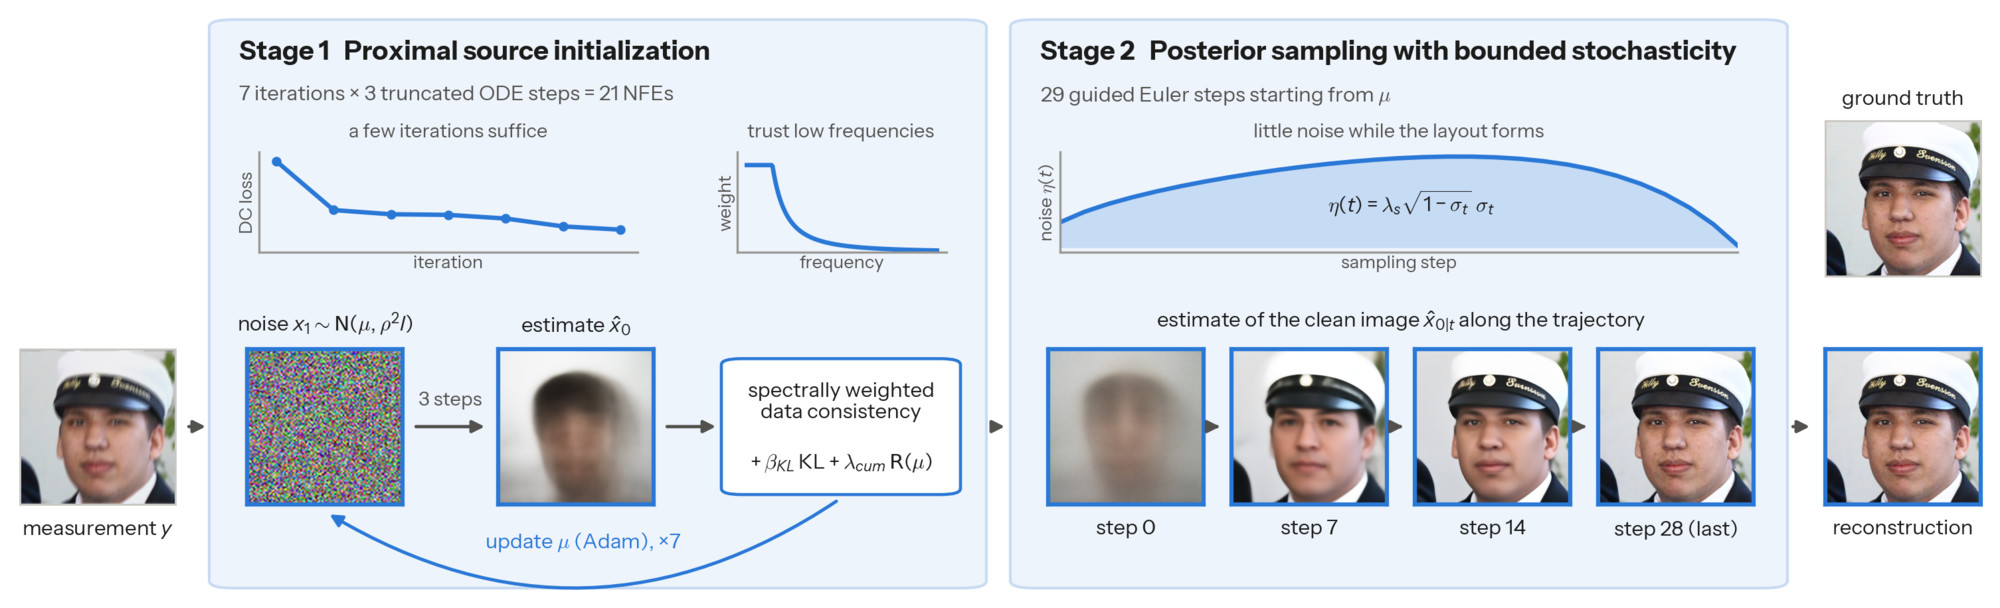
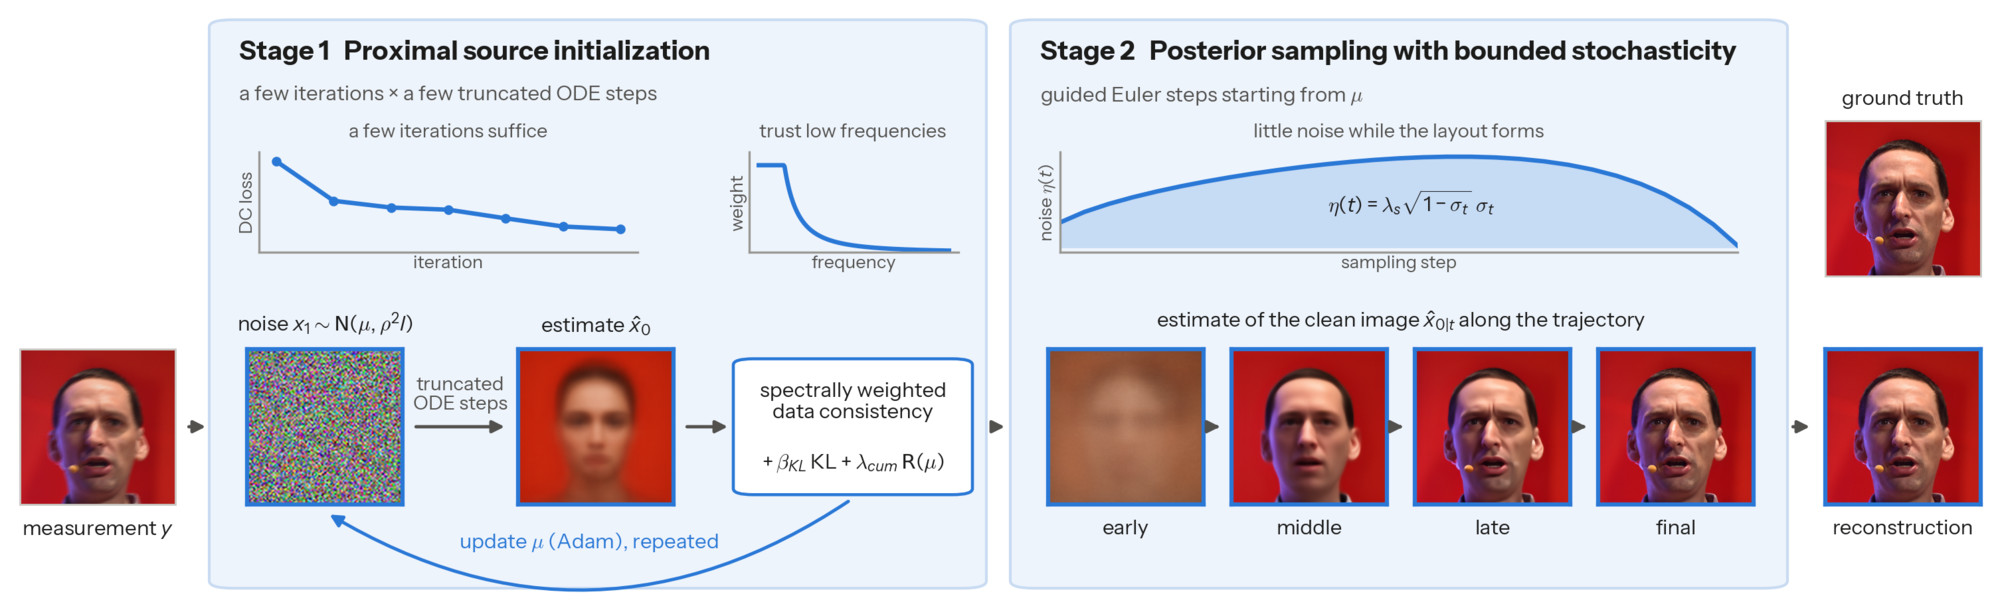
README figures: zoom comparison with ground truth, overview without fixed step counts
- Main figure: the large example is FFHQ motion deblurring (cap lettering), with zoomed crops shown as
  measurement | FLINT | ground truth; the top-row motion tile is a DIV2K example. All images are outputs
  of the current public configs.
- Overview figure and text: no fixed iteration or step counts (the best values depend on the backbone);
  the example is one whose Stage-1 estimate keeps the ground truth's low-frequency layout.

diff --git a/README.md b/README.md
@@ -14,10 +14,10 @@ Seoul National University
 
 FLINT solves linear inverse problems with a pre-trained flow-matching model (Stable Diffusion 3.5-Medium) and no additional training. The initial noise and the stochasticity of sampling are coupled: a moderately close starting point already reaches the best attainable error, but the advantage is erased if too much noise accumulates during guided sampling. FLINT therefore works in two stages:
 
-1. **Proximal source initialization.** Seven iterations optimize the initial noise with a manifold-constrained proximal objective. Each iteration runs three truncated ODE steps and uses a spectrally weighted data-consistency loss.
+1. **Proximal source initialization.** A few iterations optimize the initial noise with a manifold-constrained proximal objective. Each iteration runs a few truncated ODE steps and uses a spectrally weighted data-consistency loss.
 2. **Posterior sampling with bounded stochasticity.** Guided sampling starts from the optimized noise and injects noise with a bell-shaped schedule, so the initialization advantage is preserved.
 
-The whole solver uses 50 NFEs, about 7 s and 23 GB of GPU memory per 768×768 image on one A100.
+The whole solver takes a few seconds per image on a single GPU.
 
 ## Quick Start
 
